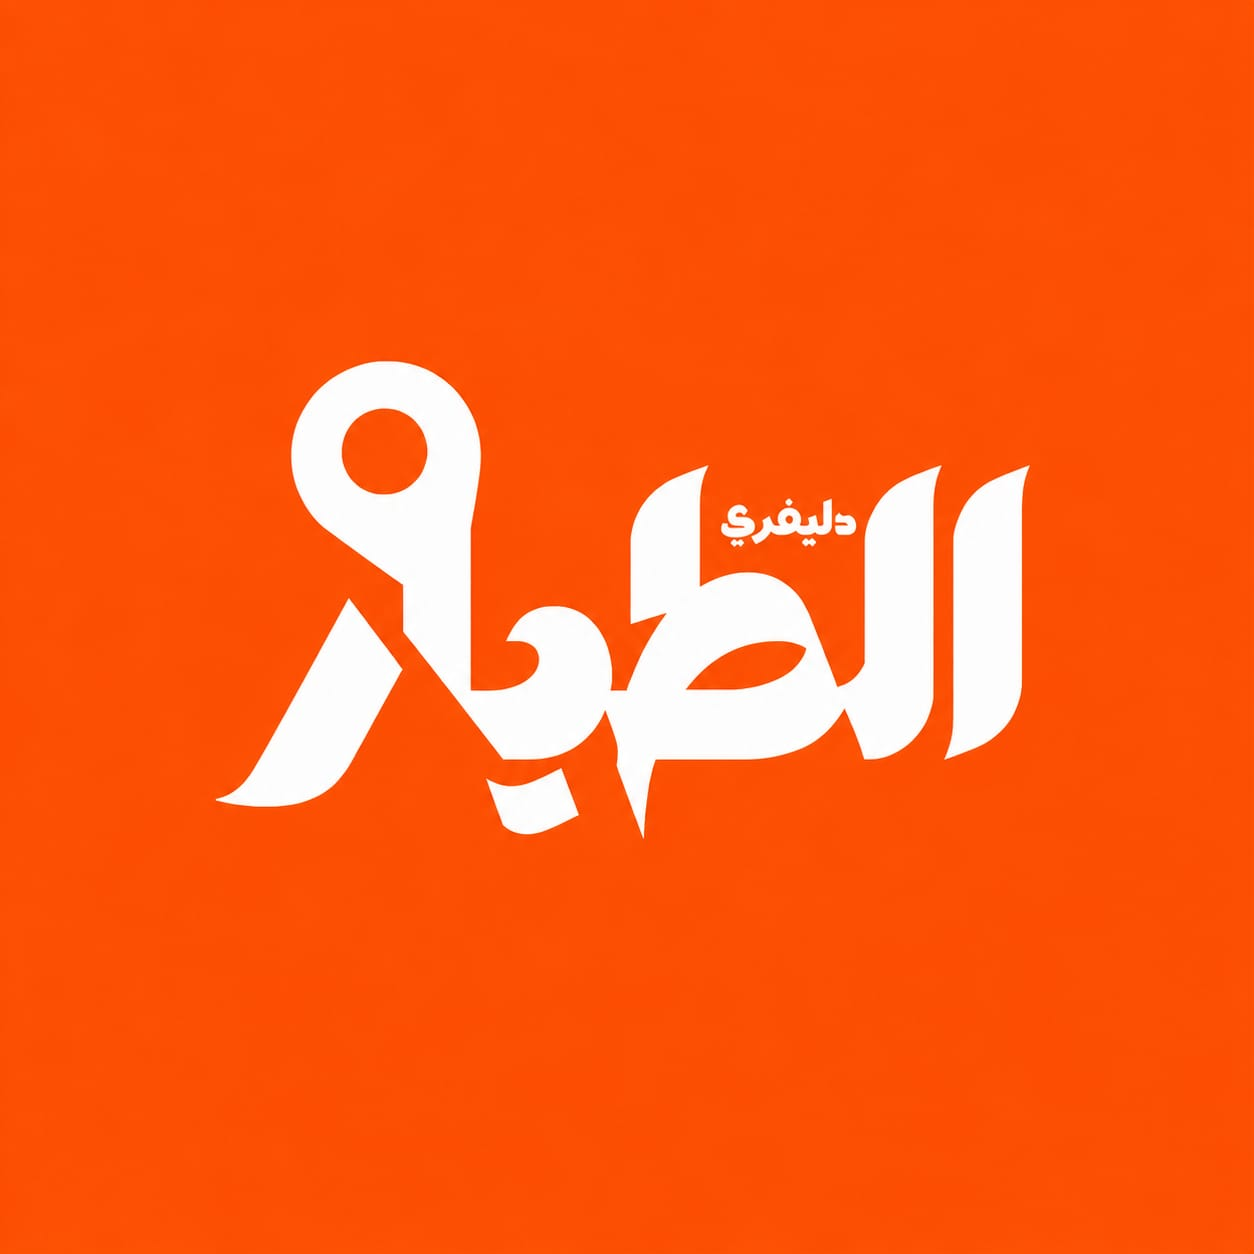
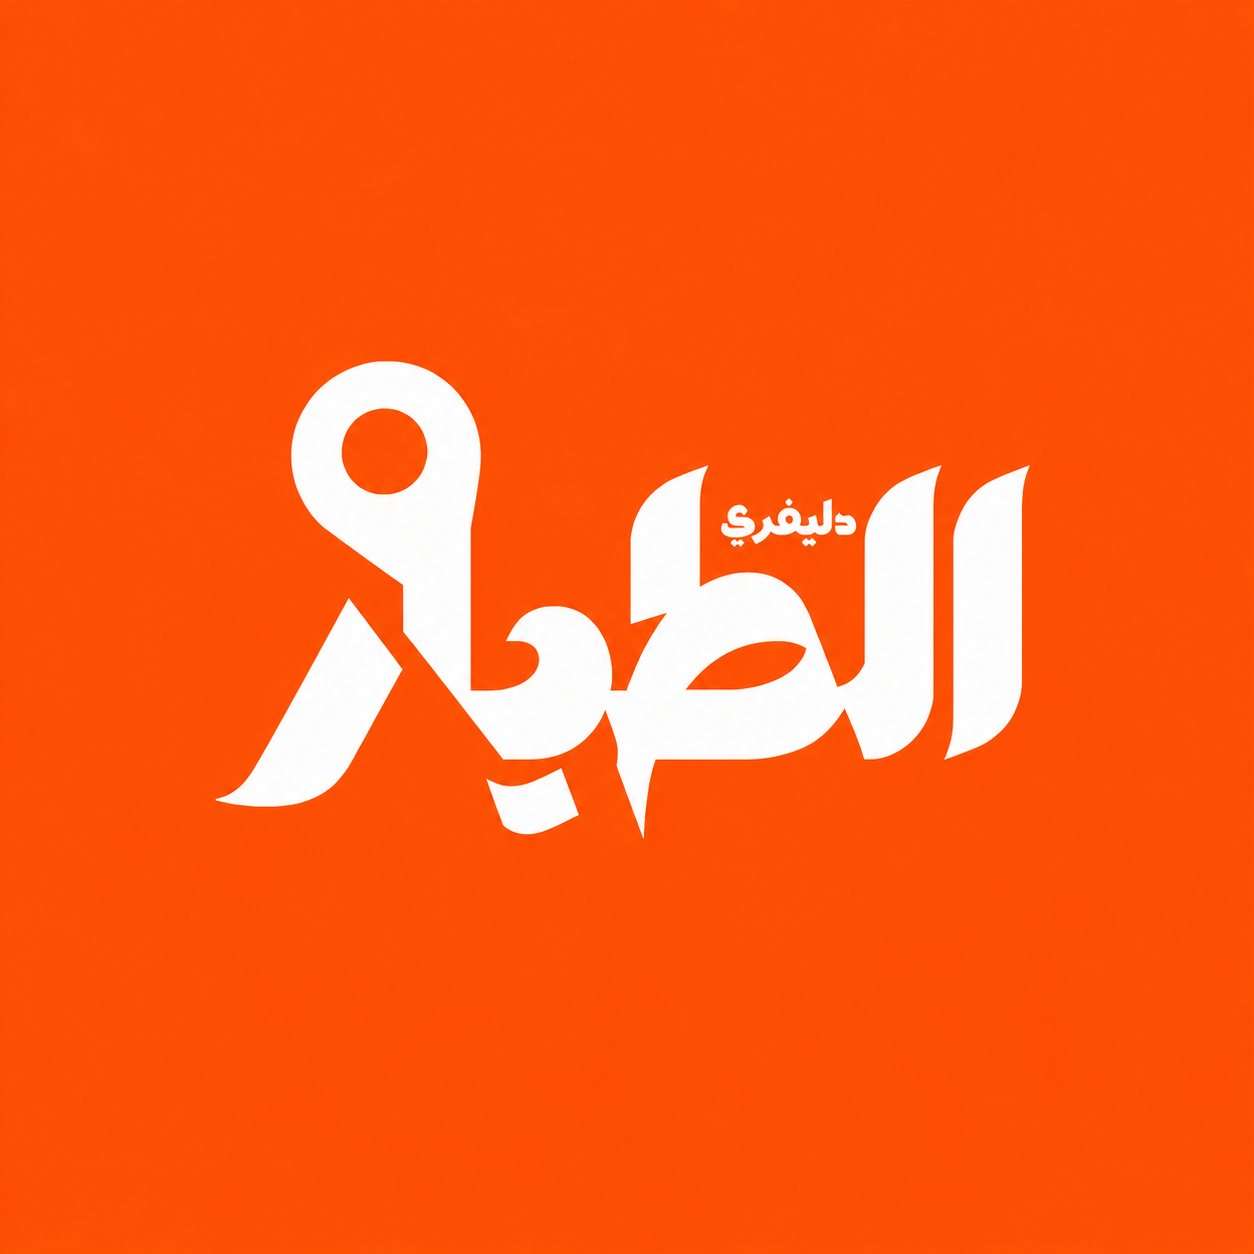
لوجو بجودة اعلى + تطابق لون السبلاش مع لون اللوجو بالظبط (#FD5003)

Changed region(s): [[0.5598, 0.4043, 0.6842, 0.4354], [0.4976, 0.4665, 0.5287, 0.4976]]

diff --git a/native-patch/MainActivity.java b/native-patch/MainActivity.java
@@ -38,7 +38,7 @@ public class MainActivity extends BridgeActivity {
         final long startTime = System.currentTimeMillis();
 
         final FrameLayout overlay = new FrameLayout(this);
-        overlay.setBackgroundColor(Color.parseColor("#FF4500")); // نفس لون البراند
+        overlay.setBackgroundColor(Color.parseColor("#FD5003")); // نفس لون البراند
 
         final ImageView logo = new ImageView(this);
         logo.setImageResource(R.drawable.altayar_splash_logo);

diff --git a/native-patch/patch_splash_theme.py b/native-patch/patch_splash_theme.py
@@ -21,7 +21,7 @@ if target not in content:
     sys.exit(1)
 
 new_items = (
-    '\n        <item name="windowSplashScreenBackground">#FF4500</item>'
+    '\n        <item name="windowSplashScreenBackground">#FD5003</item>'
     '\n        <item name="windowSplashScreenAnimatedIcon">@drawable/transparent_icon</item>'
 )
 
